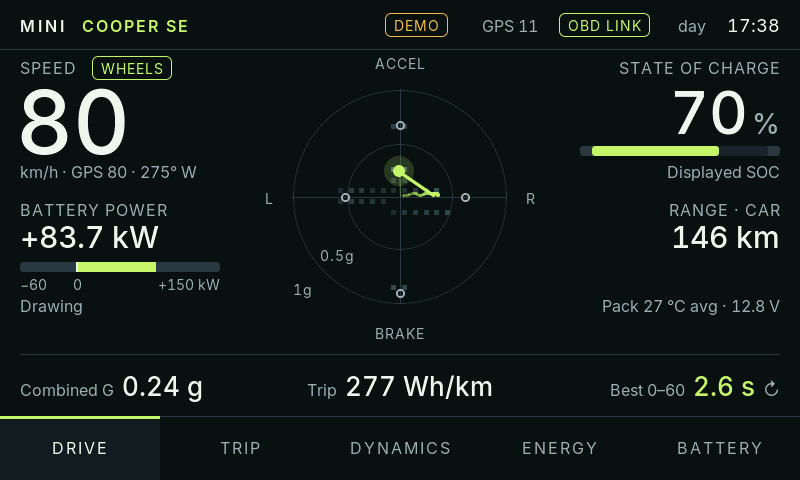
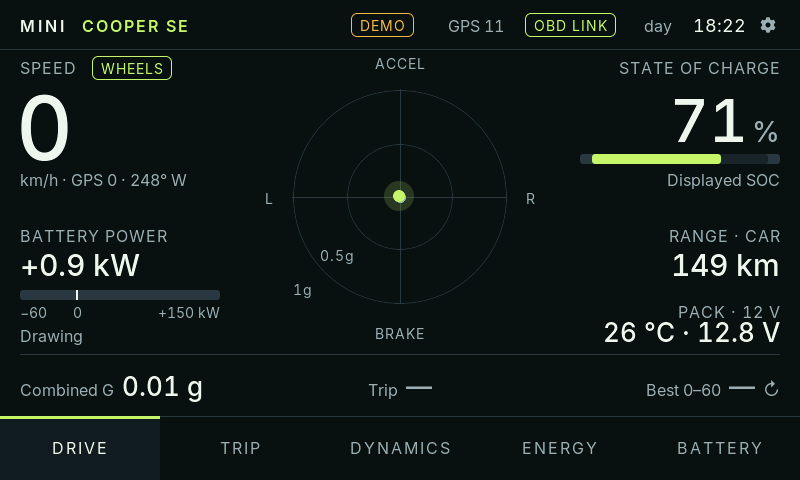
Drive page rebalanced: side columns spread over the plot's height
The speed and SOC columns sat in the top two thirds with the bottom third empty (Logan's
photo). Each column now has three groups on shared baselines (24/192 captions, 110/92 and
226 figures, 268 and 292 for the bottom group); pack temperature and 12 V become a proper
third group on the right instead of a stray line. Drive device render refreshed.

diff --git a/firmware/src/ui/ui.cpp b/firmware/src/ui/ui.cpp
@@ -187,25 +187,26 @@ void bestNextCb(lv_event_t *) {
 }
 
 void buildDrive(lv_obj_t *p) {
-  // Baseline grid (content coordinates). Captions on 24, big figures on 104 (speed) and 84
-  // (SOC), second captions on 166, second figures on 198, small lines on 240 and 262, footer
-  // text on 346. Left column at x 20, right column ending at x 780, plot centred on 400.
+  // Baseline grid (content coordinates), each side column spread over the plot's height:
+  // group 1 caption 24, big figure 110 (speed) / 92 (SOC), small line 136; group 2 caption
+  // 192, figure 226; group 3 on 268 and 292 (scale and "Drawing" left, caption and pack
+  // figure right); footer text 346. Left column at x 20, right ending at x 780, plot on 400.
   // left column
   caption(p, 20, yForBaseline(&inter_rg_16, 24), "SPEED");
   D.srcPill = pill(p, 92, 6, "GPS", MUTED);
   D.srcL = buttonLabel(D.srcPill);
-  D.speed = blabel(p, &inter_md_88, FG, 16, 104, "—");
-  D.sub = blabel(p, &inter_rg_16, MUTED, 20, 128, "km/h");
-  caption(p, 20, yForBaseline(&inter_rg_16, 166), "BATTERY POWER");
-  D.power = blabel(p, &inter_md_30, FG, 20, 198, "—");
-  lv_obj_t *track = panel(p, 20, 212, PBAR_W, 10, LINE, 3);
+  D.speed = blabel(p, &inter_md_88, FG, 16, 110, "—");
+  D.sub = blabel(p, &inter_rg_16, MUTED, 20, 136, "km/h");
+  caption(p, 20, yForBaseline(&inter_rg_16, 192), "BATTERY POWER");
+  D.power = blabel(p, &inter_md_30, FG, 20, 226, "—");
+  lv_obj_t *track = panel(p, 20, 240, PBAR_W, 10, LINE, 3);
   D.pFill = panel(track, (int)(PBAR_W * PBAR_ZERO), 0, 0, 10, LIME, 0);
   lv_obj_t *zero = panel(track, (int)(PBAR_W * PBAR_ZERO) - 1, -2, 2, 14, FG, 0);
   (void)zero;
-  blabel(p, &inter_rg_14, MUTED, 20, 240, "−60");
-  blabel(p, &inter_rg_14, MUTED, 20 + (int)(PBAR_W * PBAR_ZERO) - 4, 240, "0");
-  brlabel(p, &inter_rg_14, MUTED, 20 + PBAR_W, 240, 70, "+150 kW");
-  D.pWord = blabel(p, &inter_rg_16, MUTED, 20, 262, "No car data");
+  blabel(p, &inter_rg_14, MUTED, 20, 268, "−60");
+  blabel(p, &inter_rg_14, MUTED, 20 + (int)(PBAR_W * PBAR_ZERO) - 4, 268, "0");
+  brlabel(p, &inter_rg_14, MUTED, 20 + PBAR_W, 268, 70, "+150 kW");
+  D.pWord = blabel(p, &inter_rg_16, MUTED, 20, 292, "No car data");
 
   // centre
   D.plot.create(p, 255, 2, 290);
@@ -213,16 +214,18 @@ void buildDrive(lv_obj_t *p) {
   // right column, ending at x = 780
   brlabel(p, &inter_rg_16, MUTED, 780, 24, 220, "STATE OF CHARGE");
   lv_obj_set_style_text_letter_space(lv_obj_get_child(p, lv_obj_get_child_cnt(p) - 1), 1, 0);
-  D.soc = brlabel(p, &inter_md_60, FG, 748, 84, 140, "—");
-  D.socPct = brlabel(p, &inter_md_28, MUTED, 780, 84, 30, "%");
-  lv_obj_t *strack = panel(p, 580, 96, 200, 10, LINE, 3);
+  D.soc = brlabel(p, &inter_md_60, FG, 748, 92, 140, "—");
+  D.socPct = brlabel(p, &inter_md_28, MUTED, 780, 92, 30, "%");
+  lv_obj_t *strack = panel(p, 580, 104, 200, 10, LINE, 3);
   D.socWin = panel(strack, 0, 0, 200, 10, PANEL2, 3);
   D.socFill = panel(strack, 0, 0, 0, 10, LIME, 3);
-  brlabel(p, &inter_rg_16, MUTED, 780, 128, 200, "Displayed SOC");
-  brlabel(p, &inter_rg_16, MUTED, 780, 166, 200, "RANGE · CAR");
+  brlabel(p, &inter_rg_16, MUTED, 780, 136, 200, "Displayed SOC");
+  brlabel(p, &inter_rg_16, MUTED, 780, 192, 200, "RANGE · CAR");
   lv_obj_set_style_text_letter_space(lv_obj_get_child(p, lv_obj_get_child_cnt(p) - 1), 1, 0);
-  D.range = brlabel(p, &inter_md_30, FG, 780, 198, 200, "—");
-  D.packLine = brlabel(p, &inter_rg_16, MUTED, 780, 262, 300, "Pack — · 12 V —");
+  D.range = brlabel(p, &inter_md_30, FG, 780, 226, 200, "—");
+  brlabel(p, &inter_rg_16, MUTED, 780, 268, 200, "PACK · 12 V");
+  lv_obj_set_style_text_letter_space(lv_obj_get_child(p, lv_obj_get_child_cnt(p) - 1), 1, 0);
+  D.packLine = brlabel(p, &inter_md_26, FG, 780, 292, 300, "—");
 
   // footer: three cells on one baseline, left-aligned, centred, right-aligned
   rule(p, 20, 304, 760);
@@ -317,14 +320,16 @@ void updateDrive() {
     lv_obj_set_width(D.socFill, (int)(g_vs.car.socPct * 2) - x0);
     setTextF(D.range, "%d km", (int)lroundf(g_vs.car.rangeKm));
     setColor(D.range, FG);
-    setTextF(D.packLine, "Pack %.0f °C avg · %.1f V", g_vs.car.tempAvg, g_vs.car.v12);
+    setTextF(D.packLine, "%.0f °C · %.1f V", g_vs.car.tempAvg, g_vs.car.v12);
+    setColor(D.packLine, FG);
   } else {
     setText(D.soc, "—");
     setColor(D.soc, MUTED);
     lv_obj_set_width(D.socFill, 0);
     setText(D.range, "— km");
     setColor(D.range, MUTED);
-    setText(D.packLine, "Pack — · 12 V —");
+    setText(D.packLine, "—");
+    setColor(D.packLine, MUTED);
   }
 
   bool mv = motionFresh();
